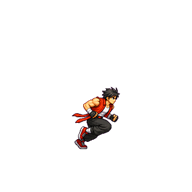
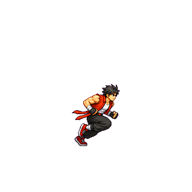
Remove hero run vertical bob

Changed region(s): [[0.375, 0.4375, 0.625, 0.7812]]

diff --git a/.codex/skills/unity-sprite-stabilizer/SKILL.md b/.codex/skills/unity-sprite-stabilizer/SKILL.md
@@ -18,6 +18,7 @@ Use this skill after generating or replacing Unity 2D character sprites, especia
 - Do not normalize every action to the same bbox height. Running, crouching, hurt, and death naturally have different heights. Scale consistency is about character body scale, not equal bbox height.
 - For tiny idle shimmer, freeze idle frames to one clean standing frame unless a stable generated idle loop already exists.
 - For locomotion, keep four distinct silhouettes. If frames hash differently but look identical, regenerate or choose clearer source poses, then scale the whole pose consistently.
+- If the user asks for a no-bob run cycle, stabilize the head/torso top line for run frames instead of the feet line. In this project the hero run top line is `top=83`; feet may vary naturally while the body stays level.
 - Clear solid magenta and low-alpha magenta edges before final QC. Resizing can reintroduce nearly transparent purple pixels.
 
 ## AIGAME_DEMO Fix Pattern
@@ -37,6 +38,7 @@ The repair:
 - Freeze idle frames to a single clean frame for now.
 - Rebuild hero run from clearer run sources, scaling the whole pose to match idle body scale rather than equalizing bbox height.
 - Re-anchor every runtime frame to `192x192`, `anchor_x=95.5`, `ground_bottom=149`.
+- For the hero run specifically, remove vertical bobbing by aligning the run frame body top to `top=83`.
 - Include hurt/death in the same pass.
 - Verify with an audit sheet and bbox/hash table.
 

diff --git a/Docs/Codex/HANDOFF_2026-05-13.md b/Docs/Codex/HANDOFF_2026-05-13.md
@@ -38,6 +38,7 @@
 - Hero run frames replaced with clearer four-pose run frames, scaled to match hero body scale.
 - Hero idle frames frozen to one clean frame to remove idle shimmer.
 - Hero hurt/death and all enemy runtime frames were re-anchored to the same canvas/ground convention.
+- Hero run frames were adjusted to remove vertical bobbing by aligning body/head top to `top=83`.
 
 ## Runtime Art Convention
 
@@ -51,6 +52,7 @@
   - Body center target: `x=95.5`
   - Ground/body bottom target: `bottom=149`
 - Do not equalize bbox height across actions. Preserve action pose height; align feet/body bottom and center instead.
+- Exception: for the hero no-bob run cycle, align the run body/head top line to `top=83` so the torso does not bounce.
 
 ## New Skill
 

diff --git a/Docs/Codex/MEMORY.md b/Docs/Codex/MEMORY.md
@@ -17,5 +17,6 @@
 - Current scene uses:
   - Hero: `Assets/Art/Generated/Hero/V2Aligned`
   - Enemy: `Assets/Art/Generated/Enemy/V2Aligned`
+- Hero run should not bob vertically. Its runtime run frames `hero-v2-5.png` through `hero-v2-8.png` are aligned by body/head top at `top=83`, not by feet.
 - Enemy art source faces right; scene `sourceFacesRight` should stay `1`.
 - Cross-lane combat should be blocked by Y distance, currently `CombatHitbox.laneTolerance = 0.35`.
